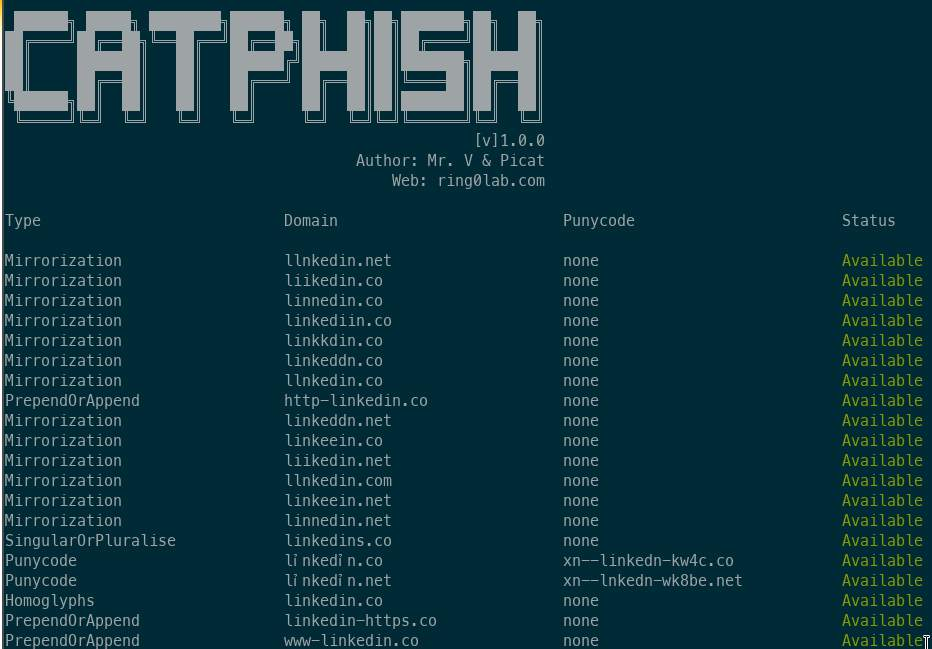
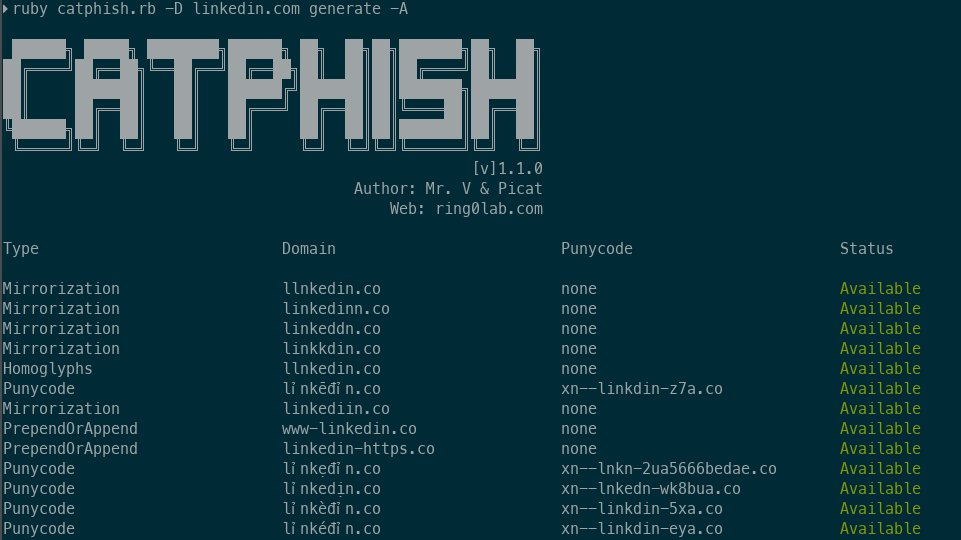
add expired feature, and remodel the parser

diff --git a/catphish.rb b/catphish.rb
@@ -7,14 +7,17 @@
 # web: www.ring0lab.com
 
 require 'set'
-require 'trollop'
+require 'trollop/subcommands'
 require 'resolv'
 require 'simpleidn'
 require 'whois-parser'
+require 'rest-client'
+require 'csv'
+require 'nokogiri'
 
 module Catphish
 
-  VERSION = '1.0.0'
+  VERSION = '1.1.0'
 
   # Some popular domains to use.
   POPULAR_TOP_DOMAINS = ['.com', '.co', '.net', '.org', '.info']
@@ -275,6 +278,76 @@ module Catphish
     end
   end
 
+  # Checking for Expired Domains Network
+  # Catphish is currently supporting Fortiguard, Juniper, and Trustwave for URL filtering check.
+	# Future support: PALTO ALTO and SonicWall.
+  def self.check_expired_domains(domain, check, username, password)
+  	container = []
+  	
+  	if !check
+	  	# Login 
+	  	RestClient.post('https://member.expireddomains.net/login/', {login: username, password: password}) do |res|
+	  		if res.headers[:location].include?("error=1")
+	  			puts "Your expireddomains.net account is invalid. Please check your account again."
+	  			exit 1
+	  		else
+	  			RestClient.get("https://member.expireddomains.net/export/search/?export=csv&falexa=1&flimit=50&fstatuscomfree=22&fstatusnetfree=22&fstatusorgfree=22&fstatusbizfree=22&fstatusinfofree=22&q=#{domain}&fprice=100&fstatususfree=22&fstatusukfree=22&fstatuscofree=22&fwhois=22
+				", {Cookie: res.headers[:set_cookie].to_s.split(';')[0].slice!(2, res.headers[:set_cookie].to_s.size)}) do |res|
+					CSV.parse(res.body, {:col_sep => ";"}) do |line|
+						unless line[4] == "domaincc"
+							container << [line[4], line[14]]
+						end
+					end
+	  			end
+	  		end
+	  	end
+	  	check_url_filter(container)
+	  else
+	  	container << [domain]
+	  	check_url_filter(container)
+	  end
+  end
+
+  def self.check_url_filter(container)
+  	printf "%-30s %-30s %s\n\n", "Domain", "Age", "Categorize"
+  	container.each do |domain|
+  		printf "%-30s %-30s %s\n\n", domain[0], domain[1], "Fortiguard:" + check_fortiguard(domain[0])
+  		printf "%-30s %-30s %s\n\n", '', '', "Juniper: " + check_juniper(domain[0])
+  		printf "%-30s %-30s %s\n\n", '', '', "Trustwave: " + check_trustwave(domain[0])
+  	end
+  end
+
+  # Check Fortiguard URL Filter
+  def self.check_fortiguard(domain)
+  	RestClient.get("https://fortiguard.com/webfilter?q=#{domain}") do |res|
+  		return Nokogiri::HTML(res.body).at('meta[name="og:description"]')['content'].split(':')[1]
+  	end
+  end
+
+  # Check Juniper URL Filter
+  def self.check_juniper(domain)
+  	RestClient.post("http://mtas.surfcontrol.com/mtas/Juniper-Results.php", {url: domain, submit1: 'Test Site'}) do |res|
+  		if res.body.split(/categorized as \<B\>(.*?)\<BR\>/)[1] == ' '
+  			return 'Unknown'
+  		else 
+  			return res.body.split(/categorized as \<B\>(.*?)\<BR\>/)[1]
+  		end
+  	end
+  end
+
+  #Check Trustwave URL Filter
+  def self.check_trustwave(domain)
+  	RestClient.post("https://www3.trustwave.com/support/m86filtercheck.asp", {checkurl: domain, Submit: 'Check Database'}) do |res|
+  		if res.body.split(/The URL \<b\>.*\<\/b\>(.*?)\<\/p\>/)[1] == ' is not found in the database.'
+  			return 'Unknown'
+  		elsif res.body.include?("daily quota")
+  			return 'Daily query limit exceeded'
+  		else
+  			return Nokogiri::HTML(res.body).css('li')[146].text
+  		end
+  	end
+  end
+
   # The "main" method of sorts of the application.
   def self.start(domain_container, domain_types: POPULAR_TOP_DOMAINS, all: false, punycode: false, header: false)
     if punycode
@@ -335,79 +408,138 @@ end
 # Default to a help menu if nothing has been given.
 ARGV[0] = '-h' if ARGV.empty?
 
-opts = Trollop::options do
-  banner Catphish.logo
-  opt :logo,                  "ASCII art banner",                                   type: :bool,     default: true
+Trollop::Subcommands::register_global do
+  banner <<-END
+#{Catphish.logo}
+Usage
+  #{File.basename($0)} [global options] COMMAND [command options]
+
+COMMANDS
+  generate                    Generate domains
+  expired                     Find available expired domains (experimental)
+
+Additional help
+  #{File.basename($0)} COMMAND -h
+
+Options
+  END
+  opt :logo, 	              "ASCII art banner", 									 type: :bool, default: true
   opt :column_header,         "Header for each column of the output",               type: :bool,     default: true
   opt :Domain,                "Target domain to analyze",                           type: :string,  required: (ARGV[0] == '-h' ? false : true)
-  opt :type,                  "Type of level domains: (popular, country, generic)", type: :string,   default: 'popular'
   opt :Verbose,               "Show all domains, including non-available ones",     type: :bool,     default: false
-  opt :All,                   "Use all of the possible methods",                    type: :bool,     default: false
-  opt :Mirrorization,         "Use the mirrorization method.",                      type: :bool,     default: false
-  opt :singular_or_pluralise, "Use the singular or pluralise method.",              type: :bool,     default: false
-  opt :prepend_or_append,     "Use the prepend or append method.",                  type: :bool,     default: false
-  opt :Top_level_domains,     "Use a specific ( set of ) top-level domain(s).",     type: :strings, required: false
-  opt :Homoglyphs,            "Use the homoglyphs method.",                         type: :bool,     default: false
-  opt :double_extensions,     "Use the double extensions method",                   type: :bool,     default: false
-  opt :Dash_omission,         "Use the dash omission method.",                      type: :bool,     default: false
-  opt :Punycode,              "Use the punycode method.",                           type: :bool,     default: false
 end
+
+Trollop::Subcommands::register_subcommand('generate') do 
+  banner <<-END
+#{Catphish.logo}
+Usage
+  #{File.basename($0)} -D [domain] generate [options]
+Options
+  END
+  opt :type,                  "Type of level domains: (popular, country, generic)", type: :string,   default: 'popular'   
+  opt :All,                   "Use all of the possible methods",                    type: :bool,     default: false
+  opt :Mirrorization,         "Use the mirrorization method",                       type: :bool,     default: false
+  opt :singular_or_pluralise, "Use the singular or pluralise method",               type: :bool,     default: false
+  opt :prepend_or_append,     "Use the prepend or append method",                   type: :bool,     default: false
+  opt :Top_level_domains,     "Use a specific ( set of ) top-level domain(s)",      type: :strings, required: false
+  opt :Homoglyphs,            "Use the homoglyphs method",                          type: :bool,     default: false
+  opt :double_extensions,     "Use the double extensions method",                   type: :bool,     default: false
+  opt :Dash_omission,         "Use the dash omission method",                       type: :bool,     default: false
+  opt :Punycode,              "Use the punycode method",                            type: :bool,     default: false
+end
+
+Trollop::Subcommands::register_subcommand('expired') do
+  banner <<-END
+#{Catphish.logo}
+Usage
+  #{File.basename($0)} -D [domain] expired [options]
+  \nAn expireddomains.net account is required to check for available expired domains.\n
+Options
+  END
+  opt :check,                  "Check category of the provided domain (No account needed)", 						  type: :bool,   default: false
+  opt :username,							 "expireddomains.net Username",																	type: :string, required: false
+  opt :password,							 "expireddomains.net Password", 																	type: :string, required: false
+end
+
+opts = Trollop::Subcommands::parse!
 
 # If given top level domains, use those. Otherwise, use whatever was 
 # given for the type or default to popular domains.
-if opts[:Top_level_domains]
-  type = Catphish.new_container do |container|
-    opts[:Top_level_domains].each do |domain|
-      domain = "." + domain unless domain[0] == "."
-      container << domain
-    end
-    container
-  end
-else
-  case opts[:type].downcase.to_sym
-  when :country
-    type = Catphish::COUNTRY_TOP_DOMAINS
-  when :generic 
-    type = Catphish::GENERIC_DOMAINS
-  else
-    type = Catphish::POPULAR_TOP_DOMAINS
-  end
-end
+
+case opts.subcommand
+when "generate"
+	if opts.subcommand_options[:Top_level_domains]
+	  type = Catphish.new_container do |container|
+	    opts.subcommand_options[:Top_level_domains].each do |domain|
+	      domain = "." + domain unless domain[0] == "."
+	      container << domain
+	    end
+	    container
+	  end
+	else
+	  case opts.subcommand_options[:type].downcase.to_sym
+	  when :country
+	    type = Catphish::COUNTRY_TOP_DOMAINS
+	  when :generic 
+	    type = Catphish::GENERIC_DOMAINS
+	  else
+	    type = Catphish::POPULAR_TOP_DOMAINS
+	  end
+	end
 
 # Get all of the domains we're interested in processing.
-domains = Catphish.new_container do |container|
-  if opts[:All]
-    [:Mirrorization, :singular_or_pluralise, :prepend_or_append, :Homoglyphs, :double_extensions, :Dash_omission, :Punycode].each do |opt|
-      Catphish.send(opt.to_s.downcase.to_sym, opts[:Domain]).each do |domain|
-        container << domain
-      end
-    end
-  else
-    [:Mirrorization, :singular_or_pluralise, :prepend_or_append, :Homoglyphs, :double_extensions, :Dash_omission, :Punycode].each do |opt|
-      next unless opts[opt]
-      Catphish.send(opt.to_s.downcase.to_sym, opts[:Domain]).each do |domain|
-        container << domain
-      end
-    end
-  end
-  container
-end
+	domains = Catphish.new_container do |container|
+	  if opts.subcommand_options[:All]
+	    [:Mirrorization, :singular_or_pluralise, :prepend_or_append, :Homoglyphs, :double_extensions, :Dash_omission, :Punycode].each do |opt|
+	      Catphish.send(opt.to_s.downcase.to_sym, opts.global_options[:Domain]).each do |domain|
+	        container << domain
+	      end
+	    end
+	  else
+	    [:Mirrorization, :singular_or_pluralise, :prepend_or_append, :Homoglyphs, :double_extensions, :Dash_omission, :Punycode].each do |opt|
+	      next unless opts.subcommand_options[opt]
+	      Catphish.send(opt.to_s.downcase.to_sym, opts.global_options[:Domain]).each do |domain|
+	        container << domain
+	      end
+	    end
+	  end
+	  container
+	end
 
-# If there are no domains to process, then fail.
-if domains.empty?
-  puts "Nothing to process ( try other options )!"
-  exit 1
-end
+	# If there are no domains to process, then fail.
+	if domains.empty?
+		puts "Nothing to process ( try other options )!"
+	  exit 1
+	end
 
 # Check if punycode is going to show up to the party.
-if opts[:Punycode] || opts[:All]
-  puny = true
-else
-  puny = false
+	if opts.subcommand_options[:Punycode] || opts.subcommand_options[:All]
+	  puny = true
+	else
+	  puny = false
+	end
+
+	# Print the logo to the screen, or maybe not.
+	puts Catphish.logo if opts.global_options[:logo]
+
+	# Start the heavy logic.
+	Catphish.start(domains, domain_types: type, all: opts.global_options[:Verbose], punycode: puny, header: opts.global_options[:column_header])
+when "expired"
+	# Print the logo to the screen, or maybe not.
+	puts Catphish.logo if opts.global_options[:logo]
+	# Start the heavy logic.
+	if !opts.subcommand_options[:check] && (!opts.subcommand_options[:username] || !opts.subcommand_options[:password])
+		puts "Error: options '--username' and '--password' need parameters for command 'expired'.
+Try --help for help.
+"
+		exit 1
+	end
+
+	if opts.subcommand_options[:check]
+		Catphish.check_expired_domains(opts.global_options[:Domain], opts.subcommand_options[:check], '', '')
+	end
+
+	if opts.subcommand_options[:username] && opts.subcommand_options[:password]
+		Catphish.check_expired_domains(opts.global_options[:Domain], opts.subcommand_options[:check], opts.subcommand_options[:username], opts.subcommand_options[:password])	
+	end
 end
-
-# Print the logo to the screen, or maybe not.
-puts Catphish.logo if opts[:logo]
-
-# Start the heavy logic.
-Catphish.start(domains, domain_types: type, all: opts[:Verbose], punycode: puny, header: opts[:column_header])

diff --git a/README.md b/README.md
@@ -12,29 +12,40 @@ bundle install
 * dashOmission
 * Punycode
 
+Version 1.1.0:
+```
+The parser for command line options is modified to compensate with the new expired feature. This new option structure gives the tool a new look and more organized.
+```
+
 # Usage
 Running the tool:
 ```
-ruby catphish.rb -D DOMAIN [options]
+catphish.rb [global options] COMMAND [command options]
 ```
 Options:
 ```
-  -l, --logo, --no-logo                      ASCII art banner (default: true)
-  -c, --column-header, --no-column-header    Header for each column of the output (default: true)
+  generate                    Generate domains
+  expired                     Find available expired domains
+(experimental)
+
+Additional help
+  catphish.rb COMMAND -h
+
+Options
+  -l, --logo, --no-logo                      ASCII art banner
+                                             (default: true)
+  -c, --column-header, --no-column-header    Header for each column
+                                             of the output (default:
+                                             true)
   -D, --Domain=<s>                           Target domain to analyze
-  -t, --type=<s>                             Type of level domains: (popular, country, generic) (default:
-                                             popular)
-  -V, --Verbose                              Show all domains, including non-available ones
-  -A, --All                                  Use all of the possible methods
-  -M, --Mirrorization                        Use the mirrorization method.
-  -s, --singular-or-pluralise                Use the singular or pluralise method.
-  -p, --prepend-or-append                    Use the prepend or append method.
-  -T, --Top-level-domains=<s+>               Use a specific ( set of ) top-level domain(s).
-  -H, --Homoglyphs                           Use the homoglyphs method.
-  -d, --double-extensions                    Use the double extensions method
-  -a, --Dash-omission                        Use the dash omission method.
-  -P, --Punycode                             Use the punycode method.
+  -V, --Verbose                              Show all domains,
+                                             including non-available
+                                             ones
   -h, --help                                 Show this message
+```
+Example:
+```
+catphish.rb -D DOMAIN generate -A
 ```
 
 ## Docker
